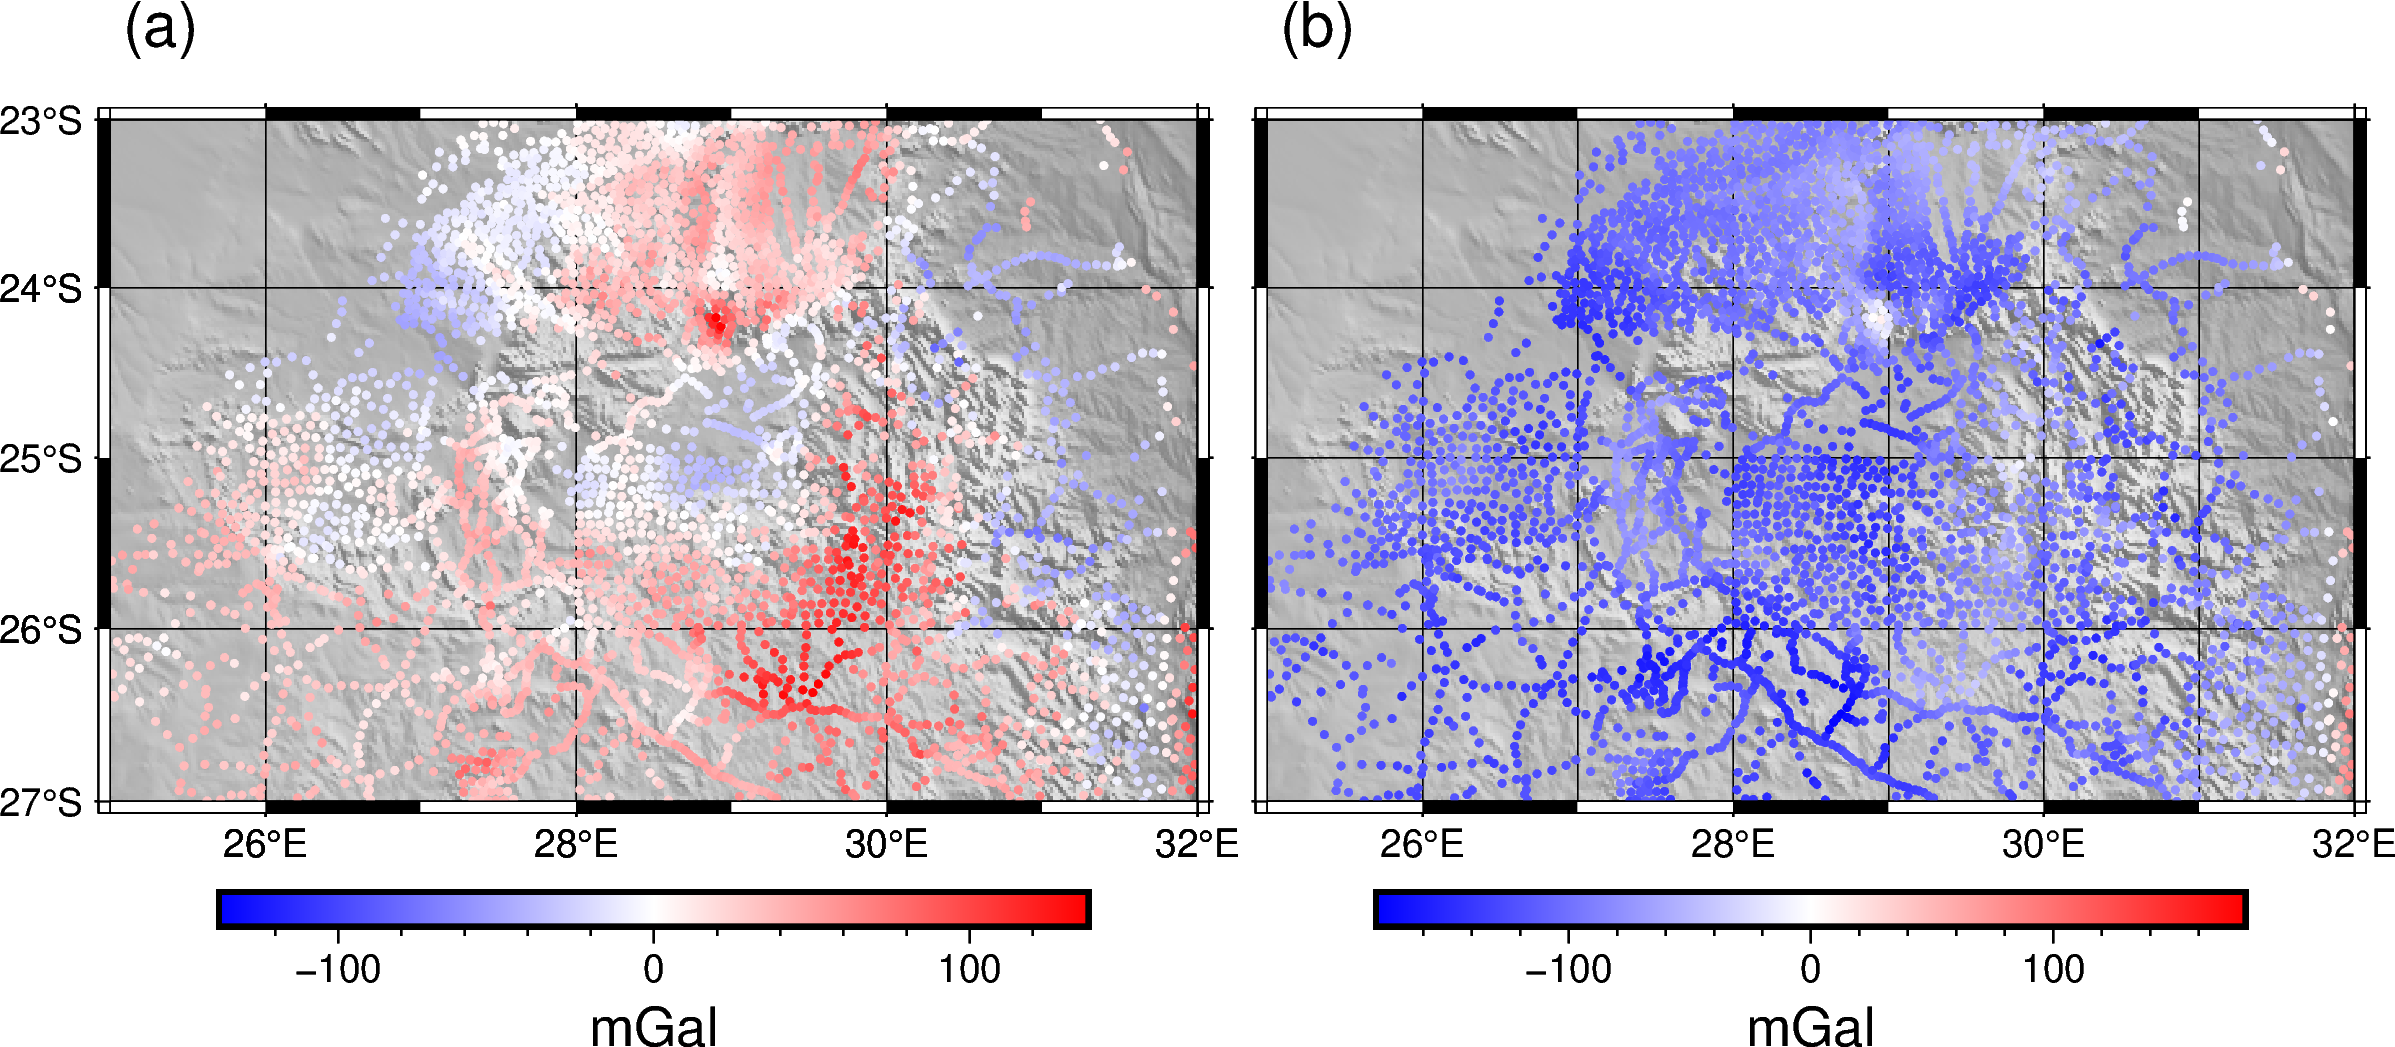
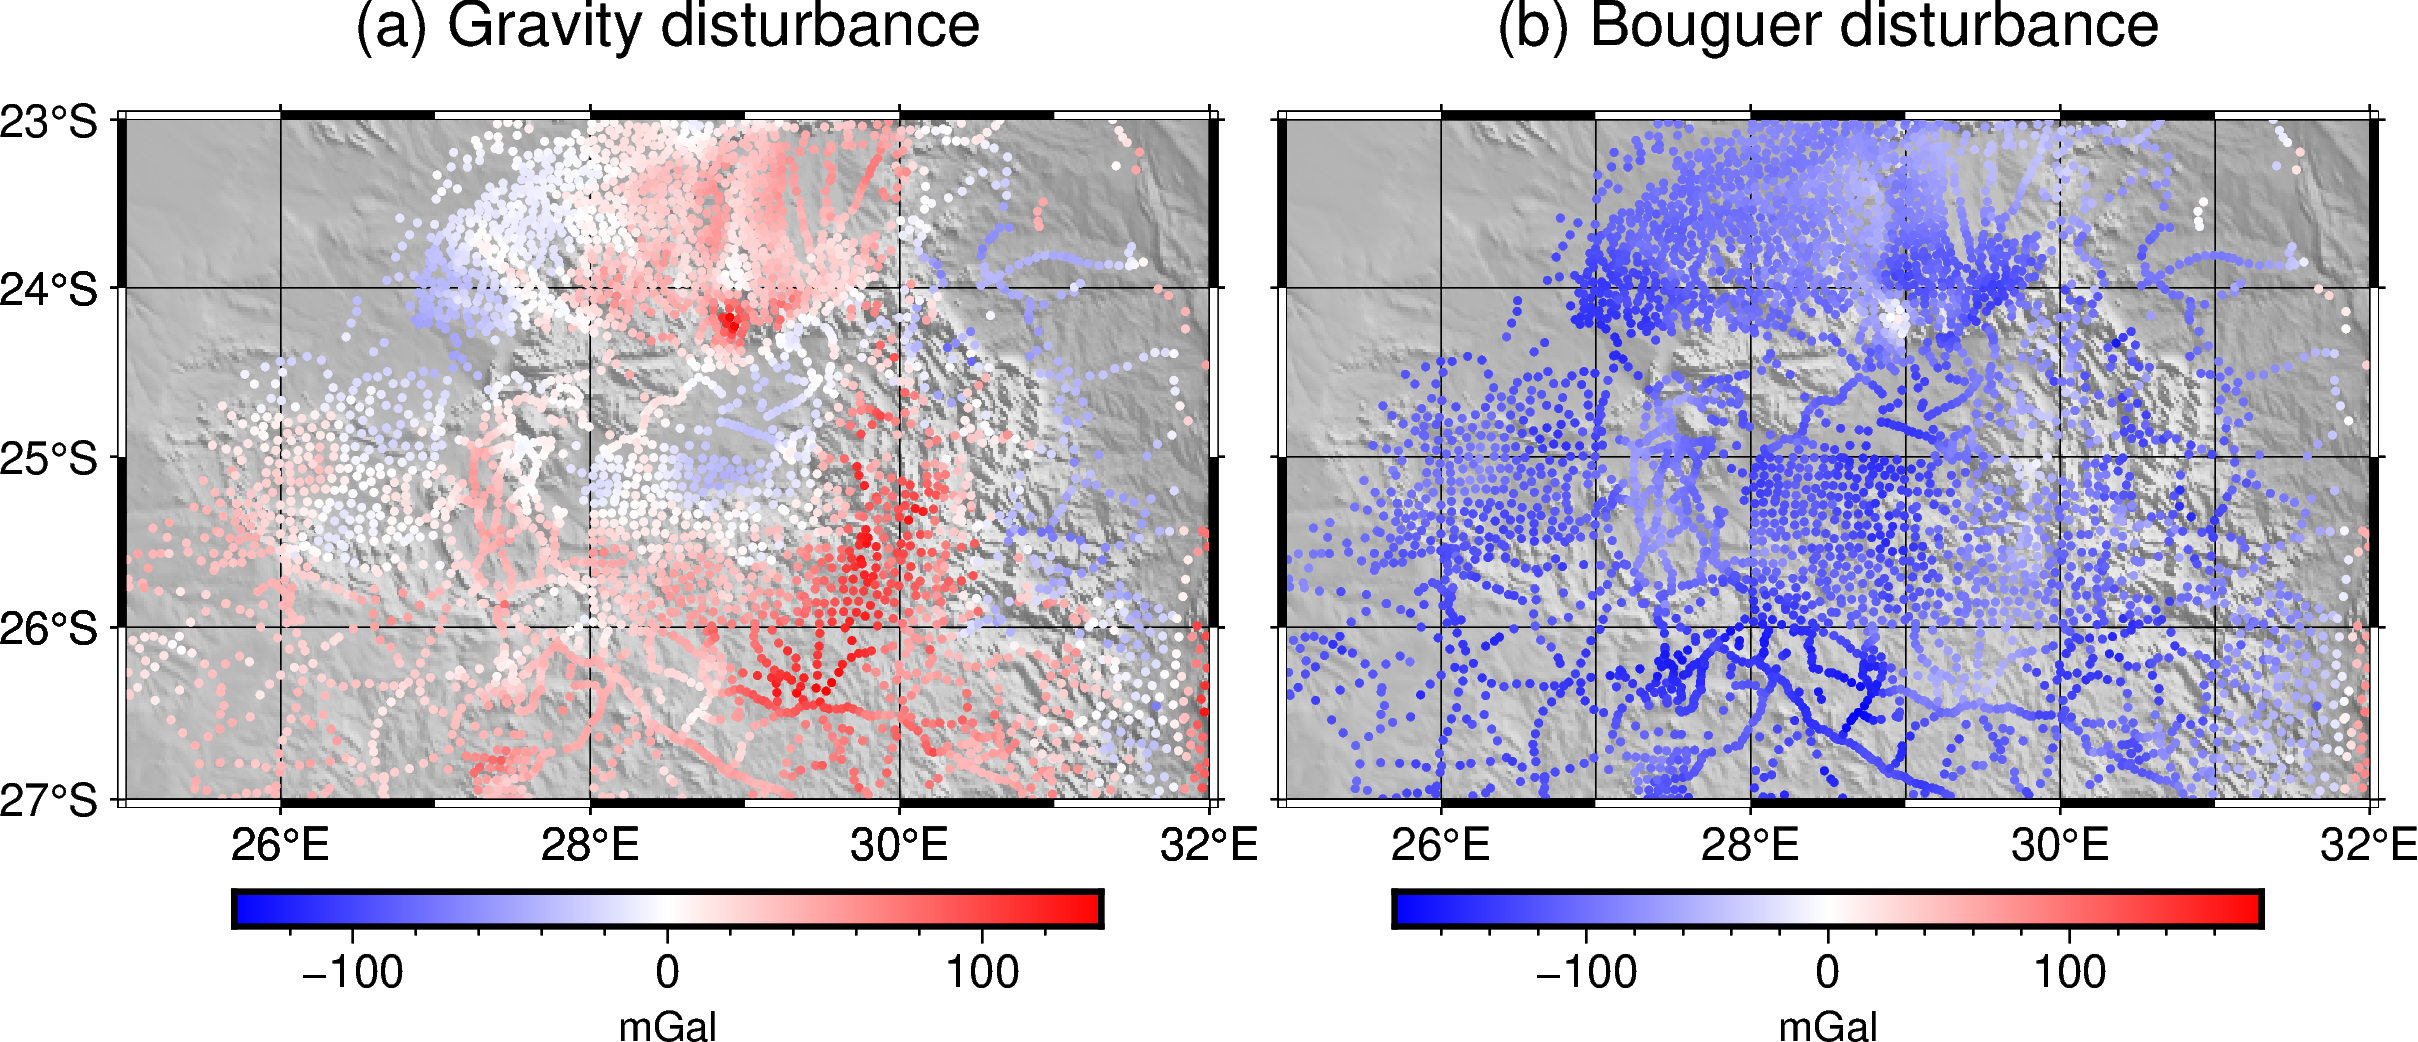
Add labels to subplots

diff --git a/extended-abstract/code/gravity_processing.py b/extended-abstract/code/gravity_processing.py
@@ -124,6 +124,14 @@ residual_grid = eqs.grid(
 # ====
 filepath = pathlib.Path(__file__).parent.resolve()
 
+pygmt.config(
+    FONT_ANNOT="11p,Helvetica,black",
+    FONT_TITLE="12p,Helvetica,black",
+    FONT_LABEL="10p,Helvetica,black",
+    MAP_TITLE_OFFSET="0p",
+    MAP_FRAME_WIDTH="2p",
+)
+
 # --------------------------------
 # Plot the downloaded gravity data
 # --------------------------------
@@ -139,10 +147,10 @@ relief_series = [large_relief.values.min(), large_relief.values.max()]
 with fig.subplot(
     nrows=1,
     ncols=2,
-    figsize=("19c", "8c"),
-    autolabel="(a)",
+    figsize=("19c", "10c"),
+    autolabel="(a)+jTC",
 ):
-    with fig.set_panel(panel=0):
+    with fig.set_panel(panel=0, fixedlabel="(a) Observed gravity"):
         pygmt.makecpt(
             cmap="gray",
             series=relief_series,
@@ -177,7 +185,7 @@ with fig.subplot(
             pen="1p,orangered1,-",
         )
         fig.colorbar(frame='af+l"mGal"')
-    with fig.set_panel(panel=1):
+    with fig.set_panel(panel=1, fixedlabel="(b) Obs. gravity on Bushveld"):
         pygmt.makecpt(
             cmap="gray",
             series=relief_series,
@@ -220,10 +228,10 @@ with fig.subplot(
     nrows=1,
     ncols=2,
     figsize=("19c", "8c"),
-    autolabel="(a)",
+    autolabel="(a)+jTC",
     sharey="l",
 ):
-    with fig.set_panel(panel=0):
+    with fig.set_panel(panel=0, fixedlabel="(a) Gravity disturbance"):
         # Plot relief
         pygmt.makecpt(
             cmap="gray",
@@ -252,7 +260,7 @@ with fig.subplot(
             frame="afg",
         )
         fig.colorbar(frame='af+l"mGal"')
-    with fig.set_panel(panel=1):
+    with fig.set_panel(panel=1, fixedlabel="(b) Bouguer disturbance"):
         # Plot relief
         pygmt.makecpt(
             cmap="gray",
@@ -300,10 +308,10 @@ with fig.subplot(
     nrows=1,
     ncols=2,
     figsize=("19c", "8c"),
-    autolabel="(a)",
+    autolabel="(a)+jTC",
     sharey="l",
 ):
-    with fig.set_panel(panel=0):
+    with fig.set_panel(panel=0, fixedlabel="(a) Gravity residuals"):
         # Plot relief
         pygmt.makecpt(
             cmap="gray",
@@ -331,7 +339,7 @@ with fig.subplot(
             frame="afg",
         )
         fig.colorbar(frame='af+l"mGal"')
-    with fig.set_panel(panel=1):
+    with fig.set_panel(panel=1, fixedlabel="(b) Gridded gravity residuals"):
         pygmt.makecpt(cmap="polar", series=[-maxabs, maxabs], no_bg=True)
         fig.grdimage(
             residual_grid.gravity_residual,
